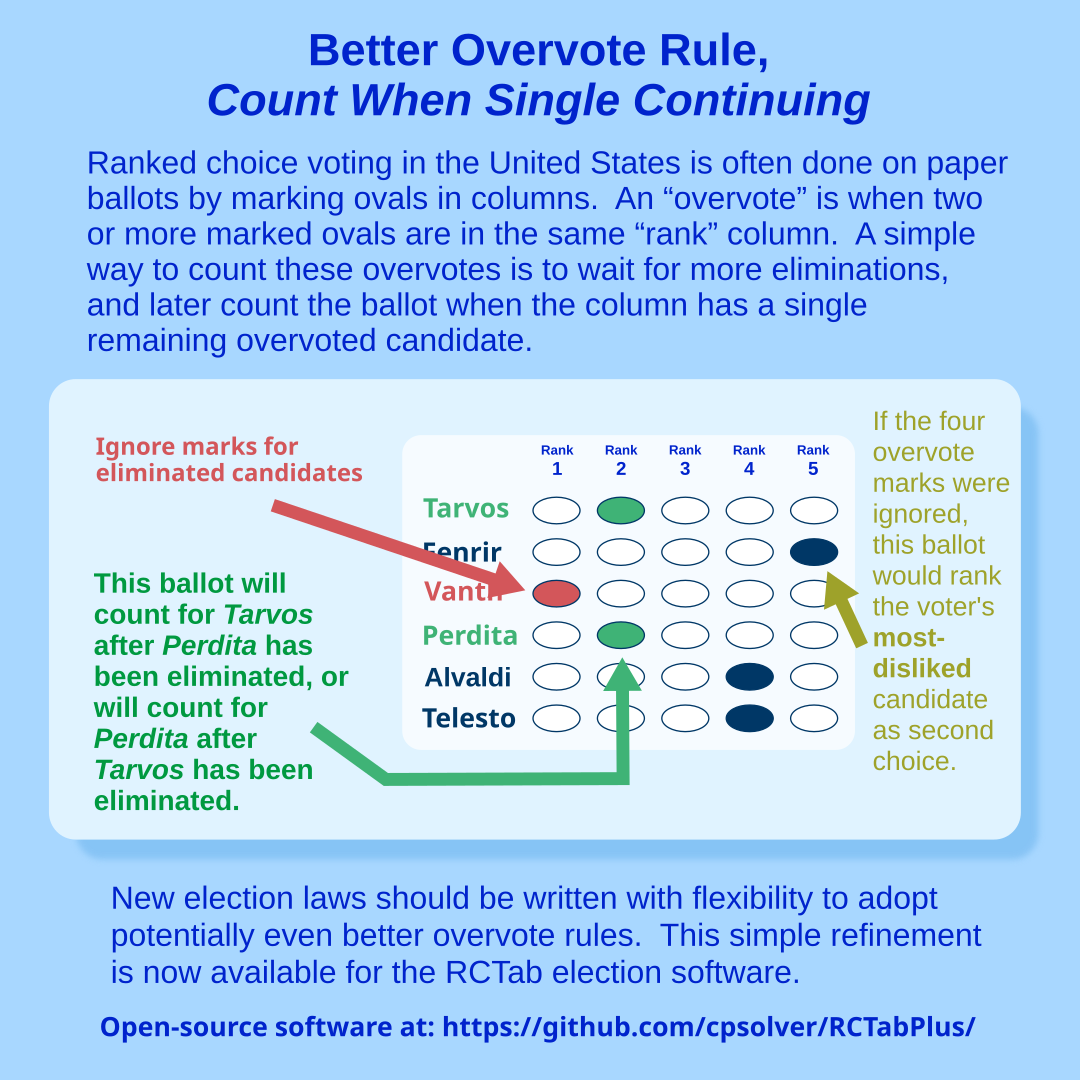
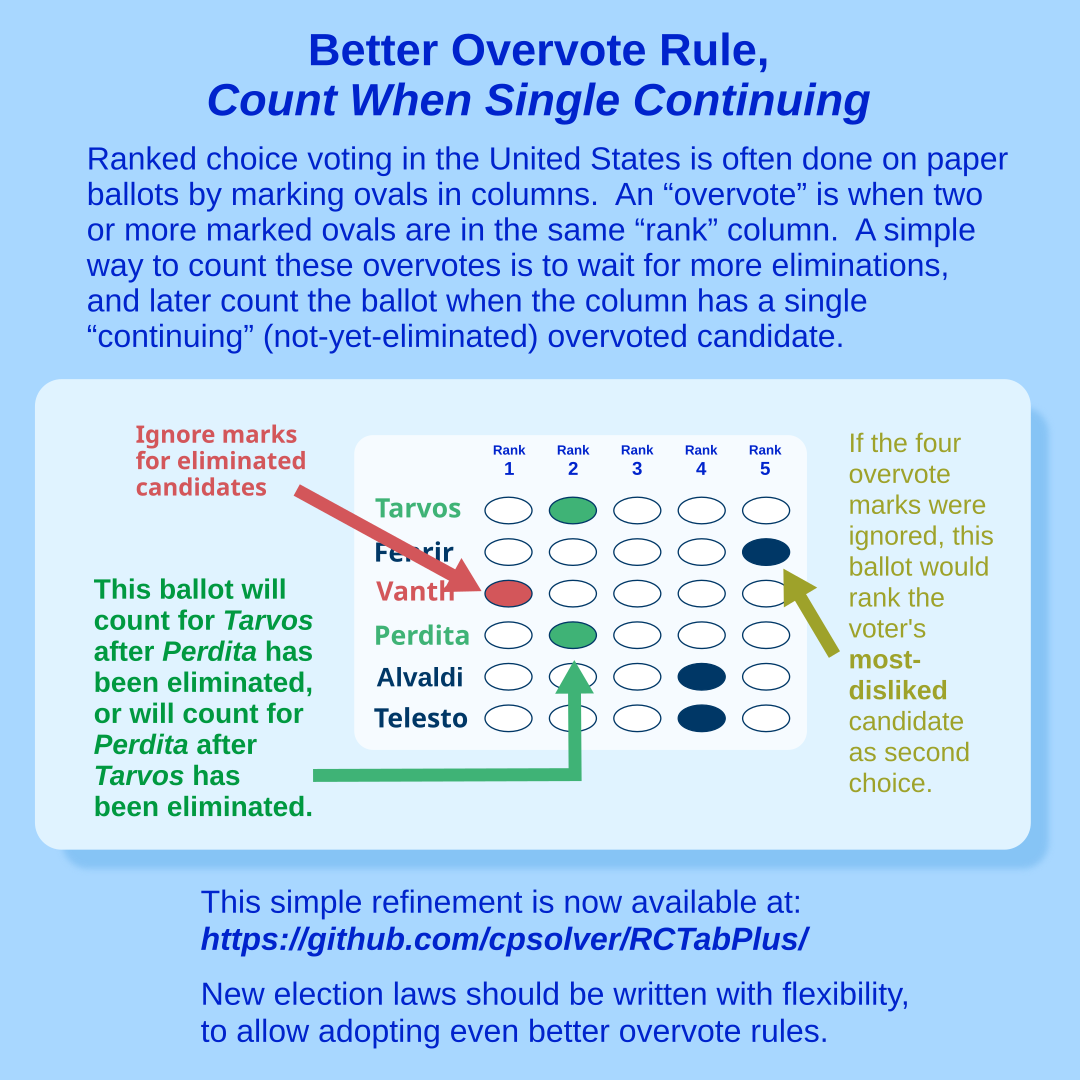
Update infographic and links to infographics

diff --git a/SolutionsCreativeDotCom/index.html b/SolutionsCreativeDotCom/index.html
@@ -120,6 +120,11 @@ A:hover IMG { color: #993333 }
 <h3><a href="https://vimeo.com/695538392">Richard Fobes zydeco dancing</a></h3>
 
 
+<h2>Infographics</h2>
+
+<h3><a href="https://votefair.org/insightful_solutions.html">Insightful Solutions</a></h3>
+
+
 <h2>Invention</h2>
 
 <h3><a href="http://www.solutionscreative.com/gutter_cleaning_tool.jpg">Gutter cleaning tool</a></h3>

diff --git a/VoteFairDotOrg/insightful_solutions.html b/VoteFairDotOrg/insightful_solutions.html
@@ -106,6 +106,12 @@ img {
 
 <p>&nbsp;</p>
 
+<h2>Better Overvote Rule, Count When Single Continuing</h2>
+
+<p><img src="https://votefair.org/count_overvote_when_single_continuing.png" /></p>
+
+<p>&nbsp;</p>
+
 <h2>Correctly Counting Marks On Ranked-Choice-Voting Ballots</h2>
 
 <p><img src="https://votefair.org/counting_overvotes.png" /></p>
